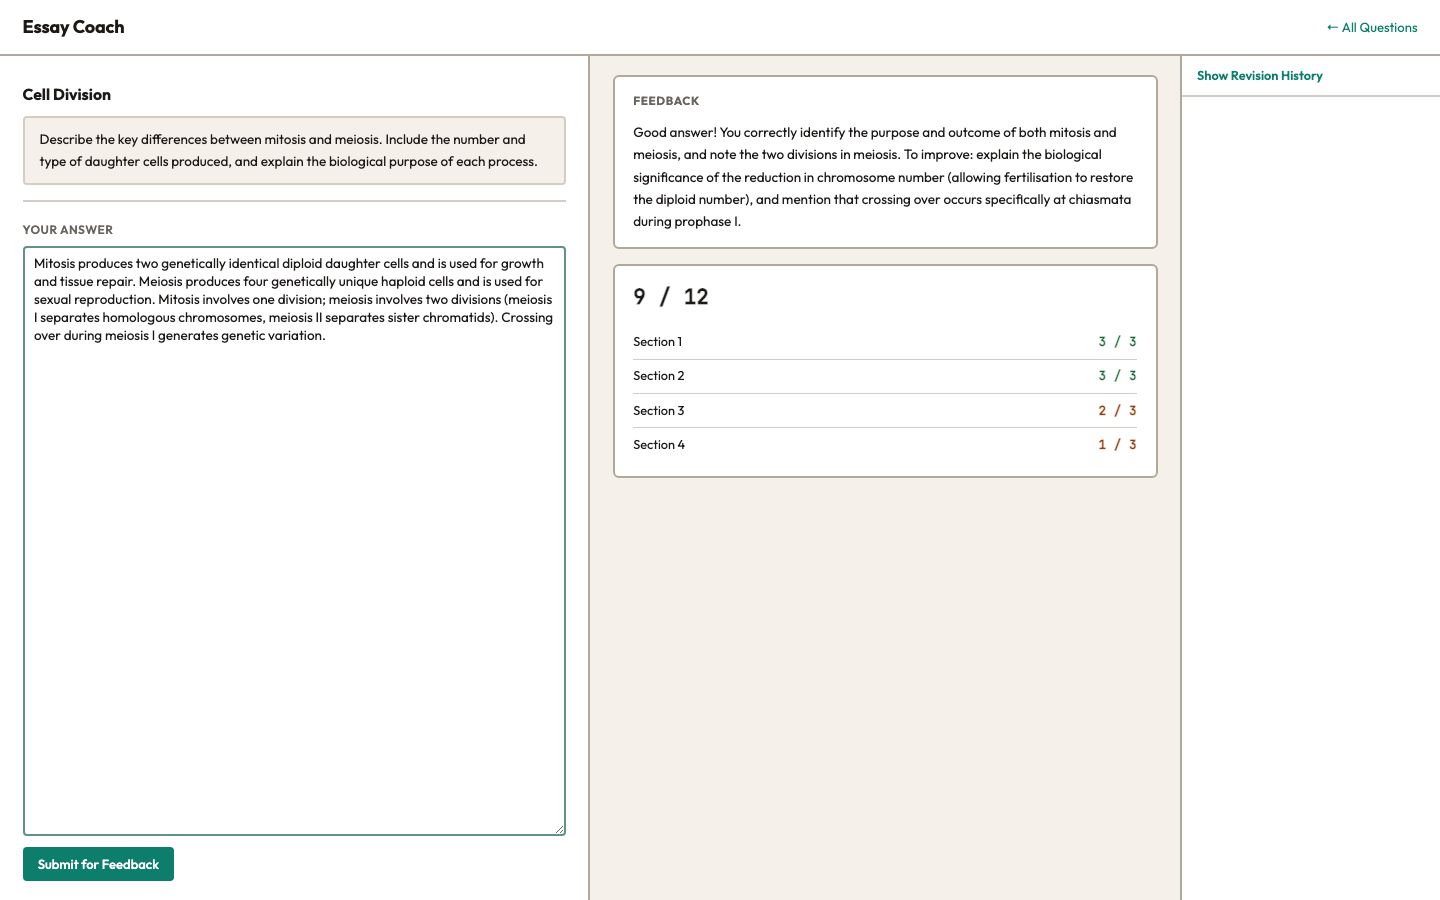
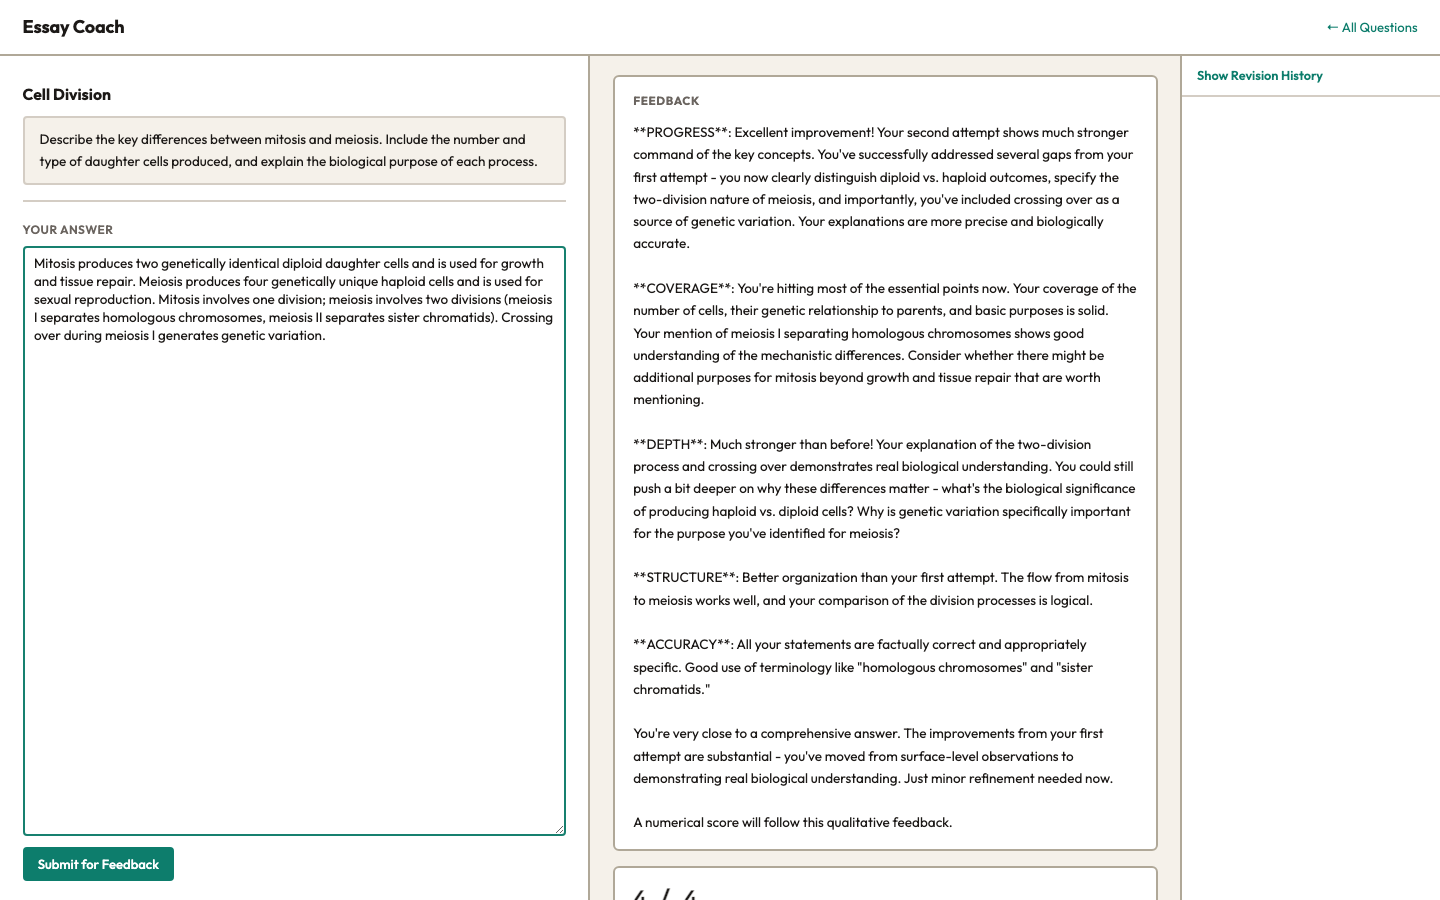
Use real AI feedback in tutorial screenshots; fix dotenv override
- capture_screenshots.py now calls the live /api/feedback SSE endpoint
  using a real student account, collecting actual AI-generated feedback
  and scores for the Cell Division question
- Fixed config.py load_dotenv(override=True) so API key is not shadowed
  by an empty environment variable

diff --git a/docs/capture_screenshots.py b/docs/capture_screenshots.py
@@ -6,6 +6,7 @@ Usage: python docs/capture_screenshots.py
 
 import asyncio
 import json
+import httpx
 from pathlib import Path
 from playwright.async_api import async_playwright
 
@@ -17,11 +18,27 @@ CLASS_CODE = "148D0E8Z"
 INST_CODE  = "E2I147ZN"
 Q_PHOTOSYN = "6e39218b-0c3c-4b60-a5cc-d0537870e0d2"
 Q_CELLDIV  = "5046cb75-717f-4b98-bee1-d072726f0317"
-INST_USER  = "screenshot_user"
-INST_PASS  = "screenshotpass1"
-INVITE     = "L5OUPWZ1"
+INST_USER    = "screenshot_user"
+INST_PASS    = "screenshotpass1"
+INVITE       = "L5OUPWZ1"
+STU_USER     = "screenshot_student"
+STU_EMAIL    = "screenshot_student@example.com"
+STU_PASS     = "screenshotstu1"
 
 VIEWPORT = {"width": 1440, "height": 900}
+
+# Student answers for Cell Division (attempt 1 = weaker, attempt 2 = stronger)
+ANSWER_1 = (
+    "Mitosis makes two cells that are the same as the parent cell. It is used for growth. "
+    "Meiosis makes four cells and is used for reproduction. Meiosis has two divisions."
+)
+ANSWER_2 = (
+    "Mitosis produces two genetically identical diploid daughter cells and is used "
+    "for growth and tissue repair. Meiosis produces four genetically unique haploid "
+    "cells and is used for sexual reproduction. Mitosis involves one division; meiosis "
+    "involves two divisions (meiosis I separates homologous chromosomes, meiosis II "
+    "separates sister chromatids). Crossing over during meiosis I generates genetic variation."
+)
 
 
 async def save(page, name: str):
@@ -30,14 +47,119 @@ async def save(page, name: str):
     print(f"  saved {name}")
 
 
+async def get_student_cookies() -> dict:
+    """Register (or log in) a student and return their session cookies."""
+    async with httpx.AsyncClient(timeout=30.0) as client:
+        r = await client.post(f"{BASE}/api/student/auth/register",
+            json={"username": STU_USER, "email": STU_EMAIL, "password": STU_PASS})
+        if r.status_code not in (200, 400):  # 400 = already exists
+            r.raise_for_status()
+        if r.status_code == 400:
+            # Already registered — log in instead
+            r = await client.post(f"{BASE}/api/student/auth/login",
+                json={"username_or_email": STU_USER, "password": STU_PASS})
+            r.raise_for_status()
+        return dict(r.cookies)
+
+
+async def get_real_feedback(cookies: dict, question_id: str, answer: str, attempt: int) -> tuple[str, dict | None]:
+    """Create a student session, submit answer to SSE endpoint, collect full response."""
+    feedback_text = []
+    score_data = None
+
+    async with httpx.AsyncClient(timeout=120.0, cookies=cookies) as client:
+        # Create a new session for attempt 1, reuse for attempt 2+
+        if attempt == 1:
+            r = await client.post(f"{BASE}/api/student/session/{question_id}/new")
+        else:
+            r = await client.get(f"{BASE}/api/student/session/{question_id}")
+        assert r.status_code == 200, f"Session failed ({r.status_code}): {r.text}"
+        session_id = r.json()["session_id"]
+
+        # Stream feedback
+        async with client.stream(
+            "POST",
+            f"{BASE}/api/feedback",
+            json={"question_id": question_id, "student_answer": answer,
+                  "attempt_number": attempt, "session_id": session_id},
+            headers={"Content-Type": "application/json", "Accept": "text/event-stream"},
+        ) as resp:
+            assert resp.status_code == 200, f"Feedback failed ({resp.status_code}): {resp.text[:200]}"
+            try:
+                async for line in resp.aiter_lines():
+                    if not line.startswith("data: "):
+                        continue
+                    raw = line[6:].strip()
+                    if raw == "[DONE]":
+                        break
+                    try:
+                        data = json.loads(raw)
+                        if "text" in data:
+                            feedback_text.append(data["text"])
+                        elif "score" in data:
+                            score_data = data["score"]
+                    except json.JSONDecodeError:
+                        pass
+            except Exception:
+                pass  # SSE stream closed by server — normal for chunked transfer
+
+    return "".join(feedback_text), score_data
+
+
+def render_score_html(score: dict) -> str:
+    """Build the score HTML that app.js normally builds."""
+    total = f"{score['total_awarded']} / {score['total_max']}"
+    items = []
+    for item in score.get("breakdown", []):
+        pct = item["awarded"] / item["max"] if item["max"] else 0
+        cls = "score-high" if pct >= 0.75 else ("score-mid" if pct >= 0.4 else "score-low")
+        items.append(
+            f'<div class="score-item">'
+            f'<span class="score-item-label">{item.get("label", "Section")}</span>'
+            f'<span class="score-item-value {cls}">{item["awarded"]} / {item["max"]}</span>'
+            f'</div>'
+        )
+    return (
+        f'<div class="score-total">{total}</div>'
+        f'<div class="score-breakdown">{"".join(items)}</div>'
+    )
+
+
+async def inject_feedback(page, feedback: str, score: dict | None, show_score: bool = True):
+    """Inject real feedback and score into the student workspace DOM."""
+    fb_js = feedback.replace("\\", "\\\\").replace("`", "\\`").replace("${", "\\${")
+    score_html = render_score_html(score).replace("`", "\\`") if score else ""
+
+    await page.evaluate(f"""() => {{
+        const fb = document.getElementById('feedback-section');
+        const fc = document.getElementById('feedback-content');
+        if (fb && fc) {{
+            fb.style.display = 'block';
+            fc.textContent = `{fb_js}`;
+        }}
+        const ss = document.getElementById('score-section');
+        const sc = document.getElementById('score-content');
+        if (ss && sc) {{
+            if ({str(show_score and score is not None).lower()} && `{score_html}`) {{
+                ss.style.display = 'block';
+                sc.innerHTML = `{score_html}`;
+            }} else {{
+                ss.style.display = 'none';
+            }}
+        }}
+        const ind = document.getElementById('streaming-indicator');
+        if (ind) ind.style.display = 'none';
+    }}""")
+
+
 async def run():
     async with async_playwright() as pw:
         browser = await pw.chromium.launch()
+        ctx = await browser.new_context(viewport=VIEWPORT)
+        page = await ctx.new_page()
 
         # ── INSTRUCTOR SCREENSHOTS ────────────────────────────────
         print("Instructor pages...")
-        ctx = await browser.new_context(viewport=VIEWPORT)
-        page = await ctx.new_page()
 
         # 1. Login page
         await page.goto(f"{BASE}/login")
@@ -61,7 +183,7 @@ async def run():
         await page.wait_for_load_state("networkidle")
         await save(page, "instructor-dashboard.png")
 
-        # 3. Edit mode (click Edit on first question)
+        # 3. Edit mode
         edit_btn = page.locator(".question-card").first.locator("button", has_text="Edit")
         if await edit_btn.count():
             await edit_btn.click()
@@ -99,11 +221,10 @@ async def run():
         await save(page, "instructor-analytics-export.png")
 
         # ── STUDENT SCREENSHOTS ───────────────────────────────────
-        # Reuse the same context (new page) — avoids connection resets
         print("Student pages...")
         sp = await ctx.new_page()
 
-        # 9. Student landing — show class code panel
+        # 9. Student landing
         await sp.goto(f"{BASE}/student")
         await sp.wait_for_load_state("networkidle")
         await sp.wait_for_timeout(400)
@@ -113,112 +234,66 @@ async def run():
             await sp.wait_for_timeout(300)
         await save(sp, "student-landing.png")
 
-        # 10. Question list — navigate directly to class question list
+        # 10. Question list
         await sp.goto(f"{BASE}/student/{CLASS_ID}")
         await sp.wait_for_load_state("networkidle")
         await save(sp, "student-question-list.png")
 
-        # 11. Student workspace (blank)
+        # 11. Student workspace (blank, answer filled in)
         await sp.goto(f"{BASE}/student/{CLASS_ID}/{Q_CELLDIV}")
         await sp.wait_for_load_state("networkidle")
         await sp.wait_for_timeout(500)
         await save(sp, "student-workspace.png")
 
-        # Fill answer text
-        textarea = sp.locator("#student-answer")
-        await textarea.fill(
-            "Mitosis produces two genetically identical diploid daughter cells and is used "
-            "for growth and tissue repair. Meiosis produces four genetically unique haploid "
-            "cells and is used for sexual reproduction. Mitosis involves one division; meiosis "
-            "involves two divisions (meiosis I separates homologous chromosomes, meiosis II "
-            "separates sister chromatids). Crossing over during meiosis I generates genetic "
-            "variation."
-        )
+        # Get student cookies for httpx API calls
+        student_cookies = await get_student_cookies()
 
-        # 12. Feedback (mock)
-        await sp.evaluate("""() => {
-            const fb = document.getElementById('feedback-section');
-            const fc = document.getElementById('feedback-content');
-            if (fb && fc) {
-                fb.style.display = 'block';
-                fc.textContent = 'COVERAGE: You have correctly identified the main outcomes '
-                    + 'of both processes and noted the number of divisions involved in meiosis. '
-                    + 'Consider whether your answer fully addresses why the chromosome number '
-                    + 'changes during meiosis and what biological purpose this serves.\\n\\n'
-                    + 'DEPTH: Your explanation of the two meiotic divisions is on the right '
-                    + 'track. Think about whether you have described the specific chromosomal '
-                    + 'events that generate genetic variation, and at what stage these occur.\\n\\n'
-                    + 'ACCURACY: No factual errors. A numerical score will follow.';
-            }
-            const ss = document.getElementById('score-section');
-            if (ss) ss.style.display = 'none';
-        }""")
+        # ── ATTEMPT 1: weaker answer ──────────────────────────────
+        print("  calling AI for attempt 1 feedback...")
+        fb1, score1 = await get_real_feedback(student_cookies, Q_CELLDIV, ANSWER_1, attempt=1)
+        print(f"  attempt 1 done — score: {score1.get('total_awarded') if score1 else 'N/A'}/{score1.get('total_max') if score1 else 'N/A'}")
+
+        # ── ATTEMPT 2: stronger answer ────────────────────────────
+        print("  calling AI for attempt 2 feedback...")
+        fb2, score2 = await get_real_feedback(student_cookies, Q_CELLDIV, ANSWER_2, attempt=2)
+        print(f"  attempt 2 done — score: {score2.get('total_awarded') if score2 else 'N/A'}/{score2.get('total_max') if score2 else 'N/A'}")
+
+        # 12. Feedback (attempt 2, text only, no score yet)
+        await sp.locator("#student-answer").fill(ANSWER_2)
+        await inject_feedback(sp, fb2, score2, show_score=False)
         await save(sp, "student-feedback.png")
 
         # 13. Feedback with score
-        await sp.evaluate("""() => {
-            const ss = document.getElementById('score-section');
-            const sc = document.getElementById('score-content');
-            if (ss && sc) {
-                ss.style.display = 'block';
-                sc.innerHTML = `
-                  <div class="score-total">9 / 12</div>
-                  <div class="score-breakdown">
-                    <div class="score-item">
-                      <span class="score-item-label">Section 1</span>
-                      <span class="score-item-value score-high">3 / 3</span>
-                    </div>
-                    <div class="score-item">
-                      <span class="score-item-label">Section 2</span>
-                      <span class="score-item-value score-high">3 / 3</span>
-                    </div>
-                    <div class="score-item">
-                      <span class="score-item-label">Section 3</span>
-                      <span class="score-item-value score-mid">2 / 3</span>
-                    </div>
-                    <div class="score-item">
-                      <span class="score-item-label">Section 4</span>
-                      <span class="score-item-value score-mid">1 / 3</span>
-                    </div>
-                  </div>`;
-            }
-        }""")
+        await inject_feedback(sp, fb2, score2, show_score=True)
         await save(sp, "student-feedback-scored.png")
 
-        # 14. Revision (previous attempt shown)
-        await sp.evaluate("""() => {
-            const fc = document.getElementById('feedback-content');
-            if (fc) {
-                fc.textContent = 'PROGRESS: Improved from your previous attempt (5/12 → 9/12)! '
-                    + 'You now address genetic variation more specifically. '
-                    + 'Still to develop: consider whether your answer fully explains '
-                    + 'the significance of the chromosome number change and why it matters '
-                    + 'for the next stage of the life cycle.';
-            }
-        }""")
+        # 14. Revision — show attempt 2 feedback (which includes PROGRESS section)
+        # fb2 should contain PROGRESS since it's attempt 2
+        await inject_feedback(sp, fb2, score2, show_score=True)
         await save(sp, "student-revision.png")
 
-        # 15. Session history (mock)
-        await sp.evaluate("""() => {
-            const hs = document.getElementById('history-sidebar');
+        # 15. Session history — inject real scores from both attempts
+        s1_total = f"{score1['total_awarded']} / {score1['total_max']}" if score1 else "—"
+        s2_total = f"{score2['total_awarded']} / {score2['total_max']}" if score2 else "—"
+        await sp.evaluate(f"""() => {{
             const hc = document.getElementById('history-content');
             const ht = document.getElementById('history-toggle-text');
-            if (hs && hc && ht) {
+            if (hc && ht) {{
                 ht.textContent = 'Hide Revision History';
                 hc.style.display = 'block';
                 hc.innerHTML = `
                   <div class="history-attempt">
                     <div class="history-attempt-label">Attempt 1</div>
                     <div style="font-size:0.82rem;color:var(--text-muted);margin-top:0.15rem;">
-                      Score: 5 / 12</div>
+                      Score: {s1_total}</div>
                   </div>
                   <div class="history-attempt">
                     <div class="history-attempt-label">Attempt 2 — current</div>
                     <div style="font-size:0.82rem;color:var(--teal-dark);font-weight:600;margin-top:0.15rem;">
-                      Score: 9 / 12</div>
+                      Score: {s2_total}</div>
                   </div>`;
-            }
-        }""")
+            }}
+        }}""")
         await save(sp, "student-session-history.png")
 
         await browser.close()

diff --git a/config.py b/config.py
@@ -1,7 +1,7 @@
 import os
 from dotenv import load_dotenv
 
-load_dotenv()
+load_dotenv(override=True)
 
 ANTHROPIC_API_KEY = os.getenv("ANTHROPIC_API_KEY", "")
 DATABASE_PATH = os.getenv("DATABASE_PATH", "essay_coach.db")   # dev/test only
